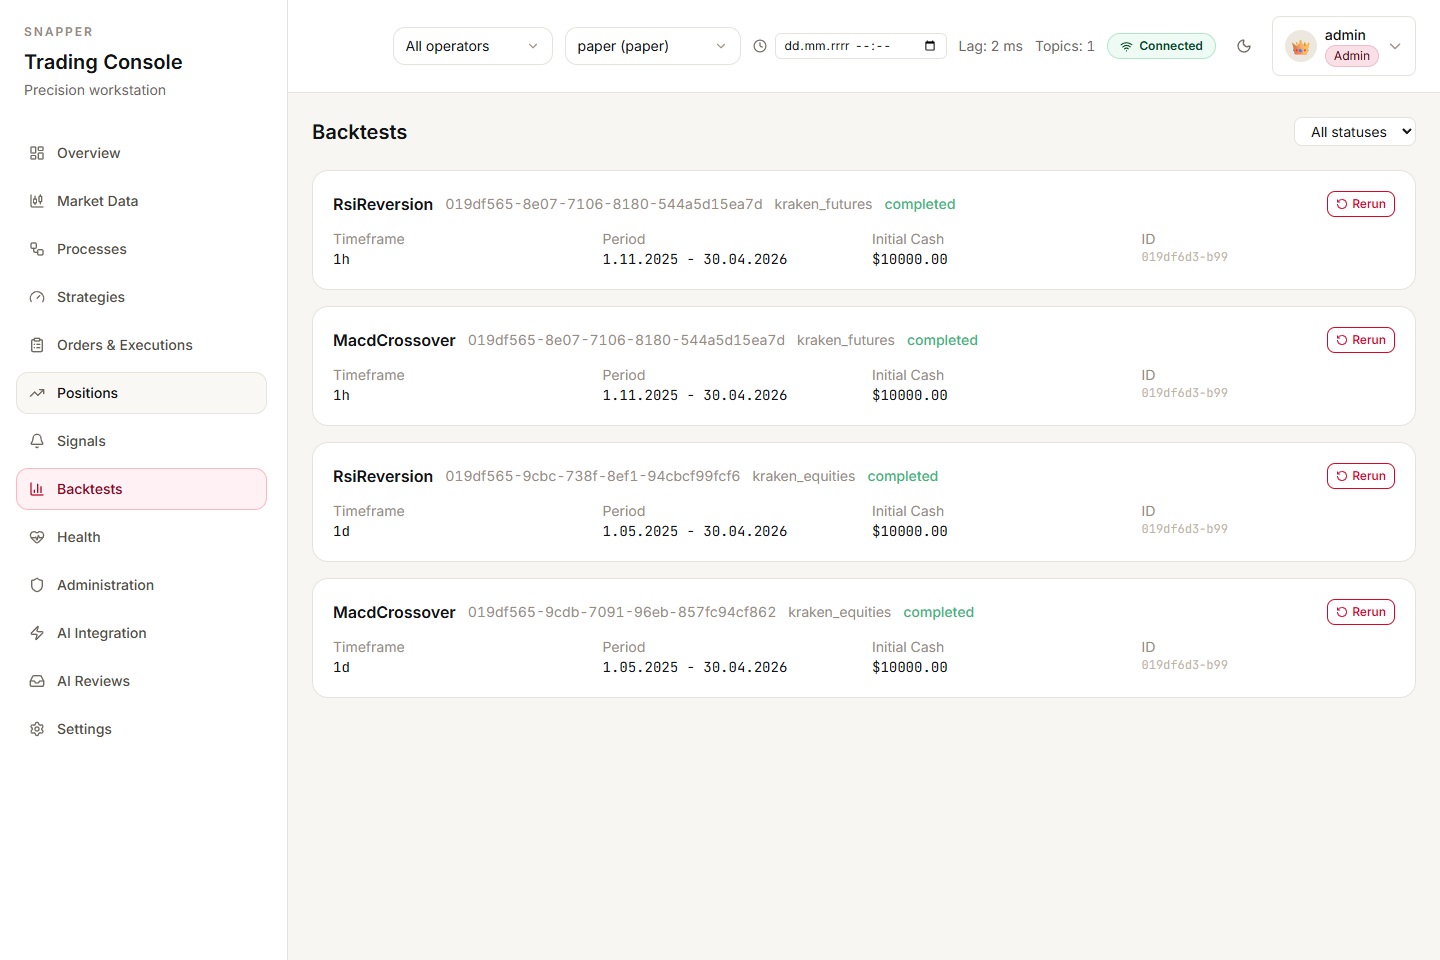
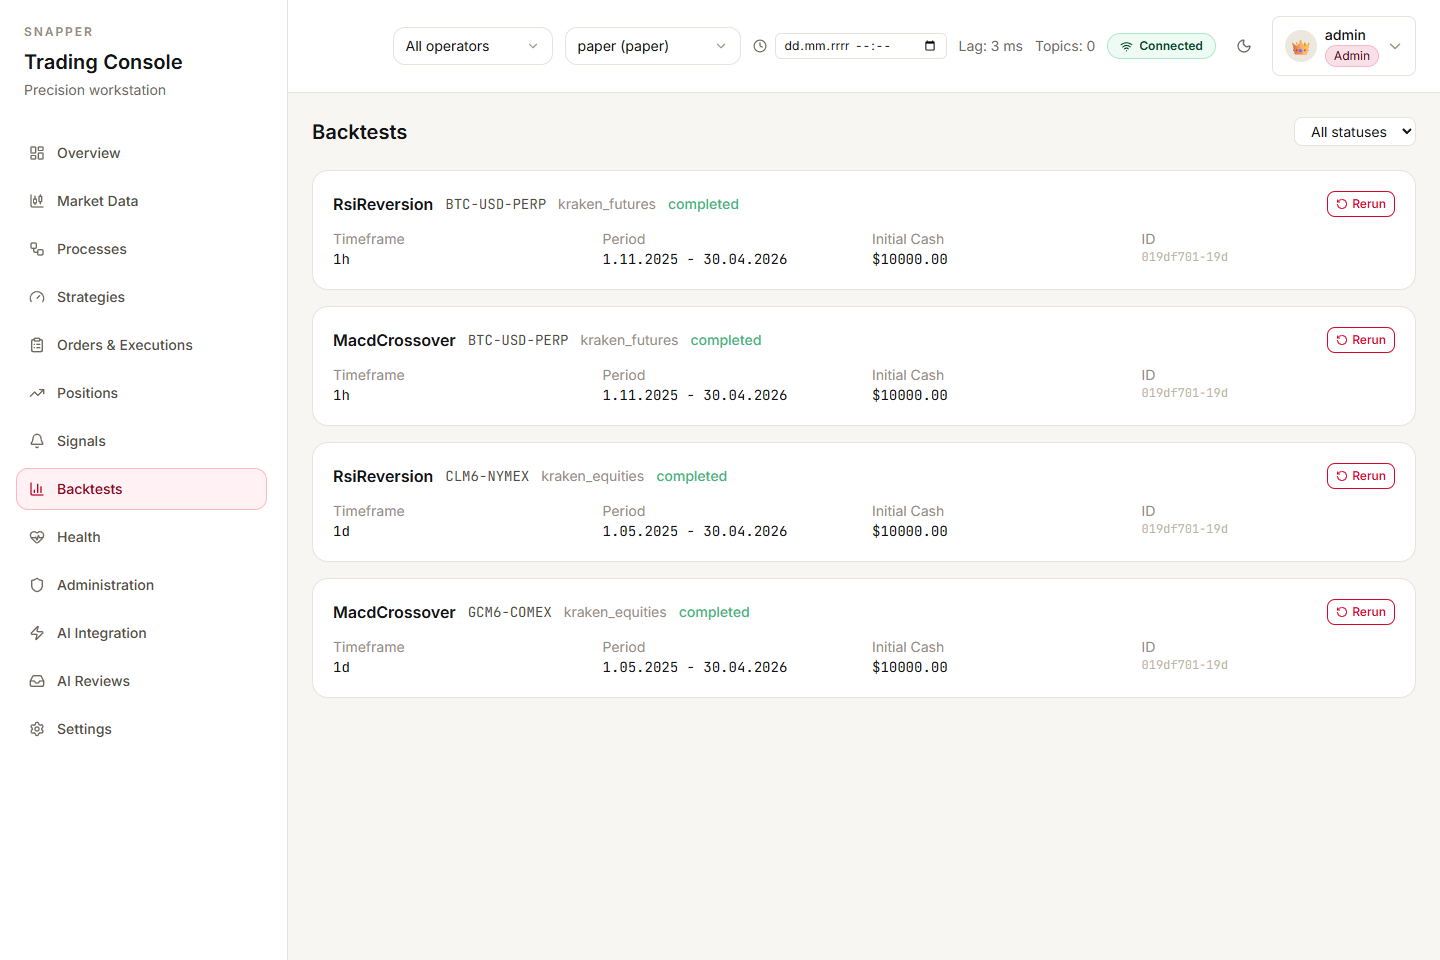
feat(api): surface instrument ticker on backtests + thesis on AI reviews
The Backtests cards previously rendered the raw `instrument_public_id`
UUID; the AI Reviews inbox showed only the review and wallet identifiers
with no clue what the delegate was being asked to consult on. Both
surfaces now render the resolved native ticker and the relevant trade
context next to it:

- `BacktestRunData` and `BacktestRunDetailData` carry an optional
  `instrument` field populated from the symbol JOIN (still falls back
  to `instrument_public_id` when the JOIN is empty, e.g. archived
  instruments).
- `PendingReviewSummaryItem` carries `instrument` plus the raw
  `signal_envelope` payload (`thesis`, `side`, news anchors), so the
  inbox shows ticker + side badge + truncated thesis with the full
  text in a tooltip.

The `AiReviewInbox` table swaps the previous Review/Wallet identifier
columns for Instrument/Thesis to lead with what the delegate actually
needs to decide on. Backtest cards keep the same density but show the
ticker (e.g. `BTC-USD-PERP`, `CLM6-NYMEX`) inline with the strategy
name instead of a UUID.

Updated screenshots: `docs/screenshots/05-backtests.png` and
`docs/screenshots/07-ai-reviews.png`. Adds
`docs/screenshots/00-social-preview.png` (1280x640) suitable for the
GitHub Social Preview setting.

diff --git a/src/features/ai-reviews/AiReviewInbox.test.tsx b/src/features/ai-reviews/AiReviewInbox.test.tsx
@@ -146,6 +146,90 @@ describe('AiReviewInbox', () => {
     expect(screen.getByTestId('ai-review-activity-row-rev-2')).toBeTruthy()
   })
 
+  it('renders instrument ticker, side badge, and full thesis when supplied', () => {
+    mockUseAuth.mockReturnValue({ user: { role: 'ai_delegate' } })
+    const shortThesis = 'Breakout continuation above $104 after Hormuz tape.'
+
+    mockUsePendingAiReviews.mockReturnValue({
+      isLoading: false,
+      error: null,
+      data: {
+        items: [
+          {
+            review_public_id: 'rev-thesis-short',
+            selected_delegate_public_id: 'del-1',
+            wallet_public_id: 'wal-1',
+            dispatch_version: 0,
+            status: 'pending',
+            deadline: '2026-04-27T10:05:00Z',
+            fanout_after: '2026-04-27T10:00:00Z',
+            instrument: 'CLM6-NYMEX',
+            signal_envelope: { thesis: shortThesis, side: 'buy' },
+          },
+        ],
+        count: 1,
+      },
+    })
+    renderWithProviders(<AiReviewInbox />)
+    expect(screen.getByText('CLM6-NYMEX')).toBeTruthy()
+    expect(screen.getByText('buy')).toBeTruthy()
+    expect(screen.getByText(shortThesis)).toBeTruthy()
+  })
+
+  it('truncates thesis to 120 chars with ellipsis when longer', () => {
+    mockUseAuth.mockReturnValue({ user: { role: 'ai_delegate' } })
+    const longThesis = 'A'.repeat(150)
+
+    mockUsePendingAiReviews.mockReturnValue({
+      isLoading: false,
+      error: null,
+      data: {
+        items: [
+          {
+            review_public_id: 'rev-thesis-long',
+            selected_delegate_public_id: 'del-1',
+            wallet_public_id: 'wal-1',
+            dispatch_version: 0,
+            status: 'pending',
+            deadline: '2026-04-27T10:05:00Z',
+            fanout_after: '2026-04-27T10:00:00Z',
+            instrument: 'BTC-USD-PERP',
+            signal_envelope: { thesis: longThesis },
+          },
+        ],
+        count: 1,
+      },
+    })
+    renderWithProviders(<AiReviewInbox />)
+    expect(screen.getByText(`${'A'.repeat(120)}…`)).toBeTruthy()
+  })
+
+  it('renders em-dash placeholders when instrument and signal_envelope are absent', () => {
+    mockUseAuth.mockReturnValue({ user: { role: 'ai_delegate' } })
+    mockUsePendingAiReviews.mockReturnValue({
+      isLoading: false,
+      error: null,
+      data: {
+        items: [
+          {
+            review_public_id: 'rev-empty',
+            selected_delegate_public_id: 'del-1',
+            wallet_public_id: 'wal-1',
+            dispatch_version: 0,
+            status: 'pending',
+            deadline: '2026-04-27T10:05:00Z',
+            fanout_after: '2026-04-27T10:00:00Z',
+          },
+        ],
+        count: 1,
+      },
+    })
+    renderWithProviders(<AiReviewInbox />)
+    const dashes = screen.getAllByText('—')
+
+    expect(dashes.length).toBeGreaterThanOrEqual(2)
+  })
+
   it('caps the activity stream rendering at 50 frames even if buffer holds more', () => {
     mockUseAuth.mockReturnValue({ user: { role: 'ai_delegate' } })
     const frames: AiReviewActivityFrame[] = Array.from({ length: 60 }, (_, i) => ({

diff --git a/src/features/ai-reviews/AiReviewInbox.tsx b/src/features/ai-reviews/AiReviewInbox.tsx
@@ -84,6 +84,8 @@ function PendingReviewsSection({
     status: string
     deadline: string | Date
     fanout_after: string | Date
+    instrument?: string | null
+    signal_envelope?: Record<string, unknown> | null
   }>
 }>): React.ReactElement {
   let content: React.ReactNode
@@ -115,28 +117,48 @@ function PendingReviewsSection({
         <table className='min-w-full text-sm'>
           <thead className='bg-dark-700 text-muted-700 text-left'>
             <tr>
-              <th className='px-4 py-2 font-semibold'>Review</th>
-              <th className='px-4 py-2 font-semibold'>Wallet</th>
+              <th className='px-4 py-2 font-semibold'>Instrument</th>
+              <th className='px-4 py-2 font-semibold'>Thesis</th>
               <th className='px-4 py-2 font-semibold'>Status</th>
               <th className='px-4 py-2 font-semibold'>Dispatch</th>
               <th className='px-4 py-2 font-semibold'>Deadline</th>
             </tr>
           </thead>
           <tbody className='divide-y divide-dark-600'>
-            {items.map(item => (
-              <tr
-                key={item.review_public_id}
-                data-testid={`pending-review-row-${item.review_public_id}`}
-              >
-                <td className='px-4 py-2 font-mono text-xs'>{item.review_public_id}</td>
-                <td className='px-4 py-2 font-mono text-xs'>{item.wallet_public_id}</td>
-                <td className='px-4 py-2'>{item.status}</td>
-                <td className='px-4 py-2 font-mono text-xs'>v{item.dispatch_version}</td>
-                <td className='px-4 py-2 text-muted-600'>
-                  {new Date(item.deadline).toLocaleString()}
-                </td>
-              </tr>
-            ))}
+            {items.map(item => {
+              const thesis = (item.signal_envelope?.['thesis'] ?? null) as string | null
+              const side = (item.signal_envelope?.['side'] ?? null) as string | null
+
+              return (
+                <tr
+                  key={item.review_public_id}
+                  data-testid={`pending-review-row-${item.review_public_id}`}
+                >
+                  <td className='px-4 py-2 font-mono text-xs text-alpine-900'>
+                    {item.instrument ?? <span className='text-muted-500'>—</span>}
+                    {side !== null && (
+                      <span className='ml-2 rounded bg-brand-50 px-1.5 py-0.5 text-[10px] uppercase text-brand-700'>
+                        {side}
+                      </span>
+                    )}
+                  </td>
+                  <td className='px-4 py-2 max-w-md text-xs text-alpine-700'>
+                    {thesis !== null ? (
+                      <span title={thesis}>
+                        {thesis.length > 120 ? `${thesis.slice(0, 120)}…` : thesis}
+                      </span>
+                    ) : (
+                      <span className='text-muted-500'>—</span>
+                    )}
+                  </td>
+                  <td className='px-4 py-2'>{item.status}</td>
+                  <td className='px-4 py-2 font-mono text-xs'>v{item.dispatch_version}</td>
+                  <td className='px-4 py-2 text-muted-600'>
+                    {new Date(item.deadline).toLocaleString()}
+                  </td>
+                </tr>
+              )
+            })}
           </tbody>
         </table>
       </div>

diff --git a/src/features/backtests/BacktestDetailPage.tsx b/src/features/backtests/BacktestDetailPage.tsx
@@ -81,7 +81,9 @@ export const BacktestDetailPage: React.FC<Props> = ({ runPublicId }) => {
         </div>
         <div>
           <div className='text-muted-500'>Instrument</div>
-          <div className='font-mono text-alpine-900'>{run.instrument_public_id}</div>
+          <div className='font-mono text-alpine-900'>
+            {run.instrument ?? run.instrument_public_id}
+          </div>
         </div>
         <div>
           <div className='text-muted-500'>Status</div>

diff --git a/src/features/backtests/Backtests.tsx b/src/features/backtests/Backtests.tsx
@@ -48,7 +48,9 @@ const BacktestRow: React.FC<BacktestRowProps> = ({ run, onCancel, onRerun }) => 
           data-testid={`open-${run.public_id}`}
         >
           <span className='font-semibold text-alpine-900'>{run.strategy_name}</span>
-          <span className='text-sm text-muted-500'>{run.instrument_public_id}</span>
+          <span className='font-mono text-sm text-alpine-700'>
+            {run.instrument ?? run.instrument_public_id}
+          </span>
           <span className='text-sm text-muted-500'>
             {run.exchange}
             {run.target_execution_exchange && (

diff --git a/src/lib/schemas/api.generated.zod.ts b/src/lib/schemas/api.generated.zod.ts
@@ -526,6 +526,8 @@ export const PendingReviewSummaryItemSchema = z
     status: z.string(),
     deadline: z.iso.datetime(),
     fanout_after: z.iso.datetime(),
+    instrument: z.string().nullable().optional(),
+    signal_envelope: z.record(z.string(), z.any()).nullable().optional(),
   })
   .strict()
 
@@ -2615,6 +2617,7 @@ export const BacktestRunDataSchema = z
     strategy_name: z.string(),
     strategy_params: z.record(z.string(), z.any()),
     instrument_public_id: z.string(),
+    instrument: z.string().nullable().optional(),
     exchange: z.string(),
     timeframe: z.string(),
     start_date: z.iso.datetime(),
@@ -2836,6 +2839,7 @@ export const BacktestRunDetailDataSchema = z
     strategy_name: z.string(),
     strategy_params: z.record(z.string(), z.any()),
     instrument_public_id: z.string(),
+    instrument: z.string().nullable().optional(),
     exchange: z.string(),
     timeframe: z.string(),
     start_date: z.iso.datetime(),

diff --git a/src/types/api.generated.ts b/src/types/api.generated.ts
@@ -1717,6 +1717,7 @@ export type Components = {
             strategy_name: string;
             strategy_params: Record<string, unknown>;
             instrument_public_id: string;
+            instrument?: string | null;
             exchange: string;
             timeframe: string;
             start_date: string;
@@ -1744,6 +1745,7 @@ export type Components = {
             strategy_name: string;
             strategy_params: Record<string, unknown>;
             instrument_public_id: string;
+            instrument?: string | null;
             exchange: string;
             timeframe: string;
             start_date: string;
@@ -2539,6 +2541,8 @@ export type Components = {
             status: string;
             deadline: string;
             fanout_after: string;
+            instrument?: string | null;
+            signal_envelope?: Record<string, unknown> | null;
         };
         PositionCycleData: {
             type: "position_cycle";